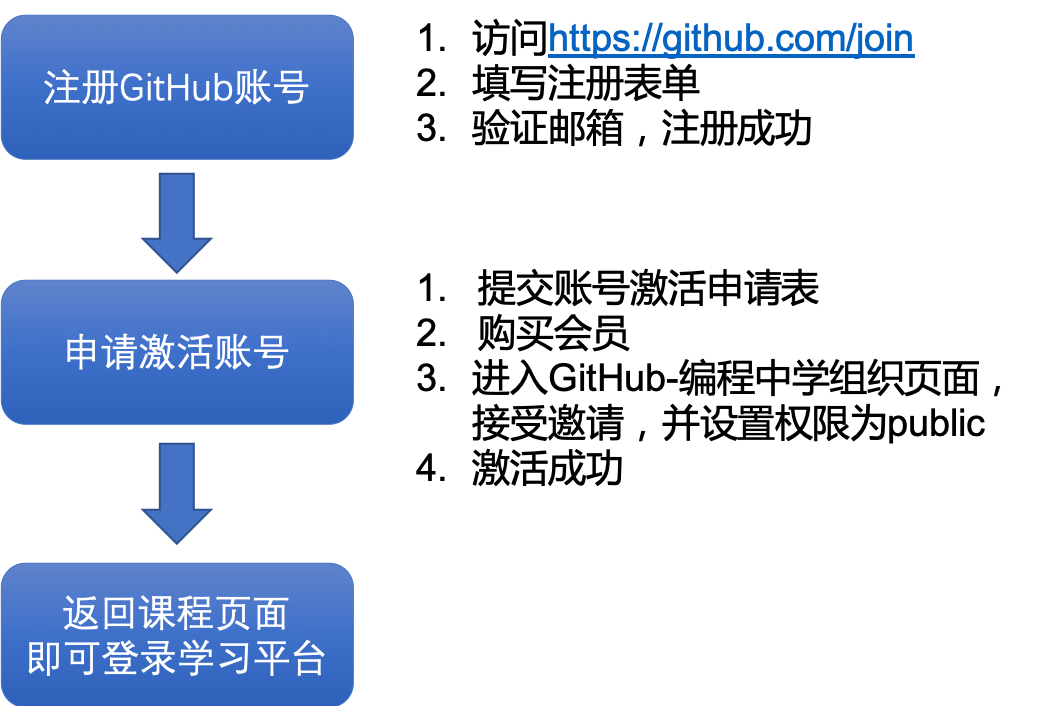
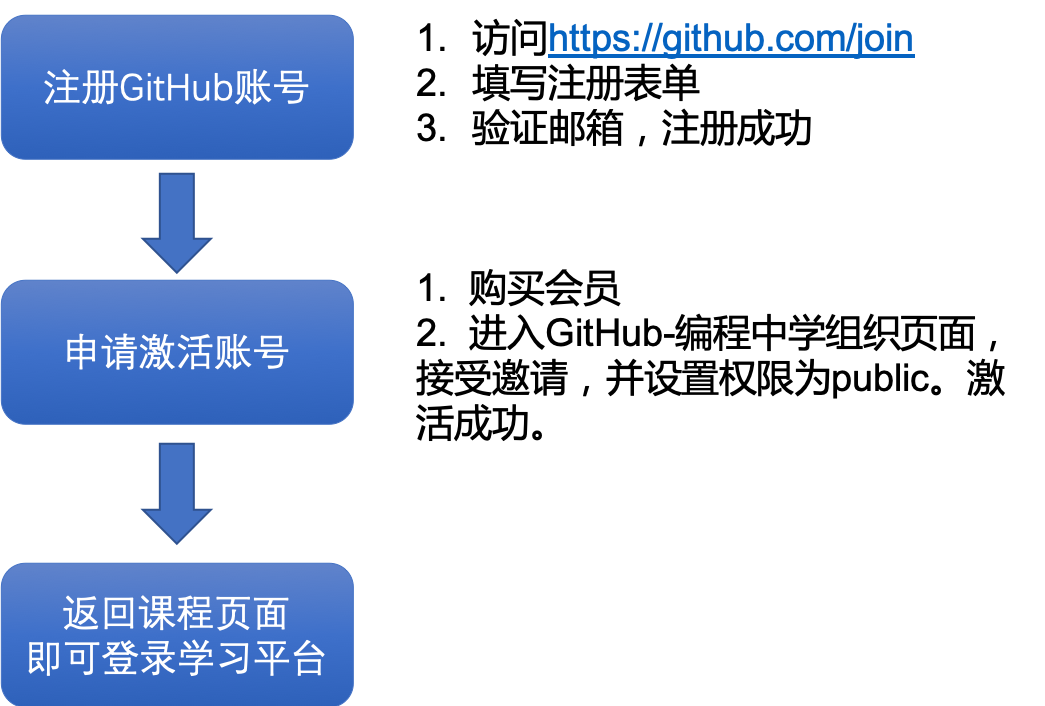
10.11更新版本，可发布

Changed region(s): [[0.3981, 0.3739, 0.9799, 0.6856]]

diff --git a/content/_index.html b/content/_index.html
@@ -30,16 +30,16 @@ linkTitle = "编程中学 -- learn in code"
 
 {{< blocks/section color="primary" >}}
 
-{{% blocks/feature icon="fas fa-file-code" title="Jupyter交互式编程环境" url="./docs/getting-started/" %}}
+{{% blocks/feature icon="fas fa-file-code" title="Jupyter交互式编程环境" url="/docs/jupyter/" %}}
 源自美国伯克利大学开发的Jupyter交互式编程环境，让你在一个网页上就可以观看教程的同时在输入框中编写和运行程序，无需自行安装任何软件
 {{% /blocks/feature %}}
 
-{{% blocks/feature icon="fas fa-wrench" title="手把手的屏幕演示和讲解" url="./docs/guides/client-sdks/" %}}
+{{% blocks/feature icon="fas fa-wrench" title="手把手的屏幕演示和讲解" url="/docs/jupyter/#屏幕演示和语音讲解" %}}
 动手练习课程采取先练后讲的形式，鼓励你独立写出程序，然后再通过屏幕演示和语音讲解相配合的形式为你解答，犹如真人老师在旁手把手指导
 {{% /blocks/feature %}}
 
 
-{{% blocks/feature icon="fas fa-chart-area" title="比知识更重要的是自学的方法" url="./docs/guides/metrics/" %}}
+{{% blocks/feature icon="fas fa-chart-area" title="比知识更重要的是自学的方法" url="/docs/must-read/self-learning/" %}}
 编程是一门十分适合自学的手艺，编程中学的课程能引导你独立思考、自主学习和解决问题的方法，同时培养细致耐心的心理素质。
 {{% /blocks/feature %}}
 

diff --git a/content/docs/courses/_index.md b/content/docs/courses/_index.md
@@ -3,11 +3,13 @@ title = "开始学习"
 weight = 4
 +++
 
+## 如何登录？
+
 建议您在电脑上使用谷歌浏览器访问课程学习链接。[如何安装谷歌浏览器？](https://www.google.cn/chrome/)
 
-点击课程的**`立即体验`**链接，你将跳转到免费体验学习环境，**首次访问您可以自己输入一个任意的用户名和密码就能成功登录**，下次登录时请仍然输入首次使用的用户名和密码登录。
+点击课程的**立即体验**链接，你将跳转到免费体验学习环境，**您可以自行输入一个任意的用户名和密码就能成功登录**（至少6位的字母或数字组成）。
 
-点击课程的**`正式学习`**链接，你将跳转到正式学习编程环境。**登录正式环境需要申请正式账号。[点击查看如何申请正式账号](../apply-account)**。
+点击课程的**正式学习**链接，你将跳转到正式学习编程环境。**登录正式环境需要申请正式账号。[点击查看如何申请正式账号](/docs/apply-account/)**。
 
 ## 学前必读
 
@@ -21,42 +23,66 @@ weight = 4
 
 |课程|-|-|
 |---|---|---|
-|1. Hello World程序和简单的数据类型|[立即体验]()|[正式学习](http://129.211.155.42/hub/user-redirect/git-pull?repo=http%3A%2F%2F49.235.145.202%2Flearnincode%2Fintroduction-to-python-programming&depth=1&urlpath=tree%2Fintroduction-to-python-programming%2F1.%2520Hello%2520World%E7%A8%8B%E5%BA%8F%E5%92%8C%E7%AE%80%E5%8D%95%E7%9A%84%E6%95%B0%E6%8D%AE%E7%B1%BB%E5%9E%8B.ipynb)|
-|2. 列表（上）|[立即体验]()|[正式学习](http://129.211.155.42/hub/user-redirect/git-pull?repo=http%3A%2F%2F49.235.145.202%2Flearnincode%2Fintroduction-to-python-programming&depth=1&urlpath=tree%2Fintroduction-to-python-programming%2F2.%2520%E5%88%97%E8%A1%A8%EF%BC%88%E4%B8%8A%EF%BC%89.ipynb)|
-|3. 列表（下）|[立即体验]()|[正式学习](http://129.211.155.42/hub/user-redirect/git-pull?repo=http%3A%2F%2F49.235.145.202%2Flearnincode%2Fintroduction-to-python-programming&depth=1&urlpath=tree%2Fintroduction-to-python-programming%2F3.%2520%E5%88%97%E8%A1%A8%EF%BC%88%E4%B8%8B%EF%BC%89.ipynb)|
-|4. if语句|[立即体验]()|[正式学习](http://129.211.155.42/hub/user-redirect/git-pull?repo=http%3A%2F%2F49.235.145.202%2Flearnincode%2Fintroduction-to-python-programming&depth=1&urlpath=tree%2Fintroduction-to-python-programming%2F4.%2520if%E8%AF%AD%E5%8F%A5.ipynb)|
-|5. 字典|-|[正式学习](http://129.211.155.42/hub/user-redirect/git-pull?repo=http%3A%2F%2F49.235.145.202%2Flearnincode%2Fintroduction-to-python-programming&depth=1&urlpath=tree%2Fintroduction-to-python-programming%2F5.%2520%E5%AD%97%E5%85%B8.ipynb)|
-|6. input()和while循环|-|[正式学习](http://129.211.155.42/hub/user-redirect/git-pull?repo=http%3A%2F%2F49.235.145.202%2Flearnincode%2Fintroduction-to-python-programming&depth=1&urlpath=tree%2Fintroduction-to-python-programming%2F6.%2520input%28%29%E5%92%8Cwhile%E5%BE%AA%E7%8E%AF.ipynb)|
-|7. 函数|[立即体验]()|[正式学习](http://129.211.155.42/hub/user-redirect/git-pull?repo=http%3A%2F%2F49.235.145.202%2Flearnincode%2Fintroduction-to-python-programming&depth=1&urlpath=tree%2Fintroduction-to-python-programming%2F7.%2520%E5%87%BD%E6%95%B0.ipynb)|
-|8. 面向对象编程--类|[立即体验]()|[正式学习](http://129.211.155.42/hub/user-redirect/git-pull?repo=http%3A%2F%2F49.235.145.202%2Flearnincode%2Fintroduction-to-python-programming&depth=1&urlpath=tree%2Fintroduction-to-python-programming%2F8.%2520%E9%9D%A2%E5%90%91%E5%AF%B9%E8%B1%A1%E7%BC%96%E7%A8%8B%E2%80%94%E2%80%94%E7%B1%BB.ipynb)|
+|1. Hello World程序和简单的数据类型|[立即体验](https://trial.learnincode.com/hub/user-redirect/git-pull?repo=http%3A%2F%2F172.17.0.8%2Flictrial%2Fintroduction-to-python-programming&urlpath=tree%2Fintroduction-to-python-programming%2F1.%2520Hello%2520World%E7%A8%8B%E5%BA%8F%E5%92%8C%E7%AE%80%E5%8D%95%E7%9A%84%E6%95%B0%E6%8D%AE%E7%B1%BB%E5%9E%8B.ipynb)|[正式学习](https://hub.learnincode.com/hub/user-redirect/git-pull?repo=http%3A%2F%2F172.17.0.8%2Flearnincode%2Fintroduction-to-python-programming&urlpath=tree%2Fintroduction-to-python-programming%2F1.%2520Hello%2520World%E7%A8%8B%E5%BA%8F%E5%92%8C%E7%AE%80%E5%8D%95%E7%9A%84%E6%95%B0%E6%8D%AE%E7%B1%BB%E5%9E%8B.ipynb)|
+|2. 列表（上）|[立即体验](https://trial.learnincode.com/hub/user-redirect/git-pull?repo=http%3A%2F%2F172.17.0.8%2Flictrial%2Fintroduction-to-python-programming&urlpath=tree%2Fintroduction-to-python-programming%2F2.%2520%E5%88%97%E8%A1%A8%EF%BC%88%E4%B8%8A%EF%BC%89.ipynb)|[正式学习](https://hub.learnincode.com/hub/user-redirect/git-pull?repo=http%3A%2F%2F172.17.0.8%2Flearnincode%2Fintroduction-to-python-programming&urlpath=tree%2Fintroduction-to-python-programming%2F2.%2520%E5%88%97%E8%A1%A8%EF%BC%88%E4%B8%8A%EF%BC%89.ipynb)|
+|3. 列表（下）|[立即体验](https://trial.learnincode.com/hub/user-redirect/git-pull?repo=http%3A%2F%2F172.17.0.8%2Flictrial%2Fintroduction-to-python-programming&urlpath=tree%2Fintroduction-to-python-programming%2F3.%2520%E5%88%97%E8%A1%A8%EF%BC%88%E4%B8%8B%EF%BC%89.ipynb)|[正式学习](https://hub.learnincode.com/hub/user-redirect/git-pull?repo=http%3A%2F%2F172.17.0.8%2Flearnincode%2Fintroduction-to-python-programming&urlpath=tree%2Fintroduction-to-python-programming%2F3.%2520%E5%88%97%E8%A1%A8%EF%BC%88%E4%B8%8B%EF%BC%89.ipynb)|
+|4. if语句|-|[正式学习](https://hub.learnincode.com/hub/user-redirect/git-pull?repo=http%3A%2F%2F172.17.0.8%2Flearnincode%2Fintroduction-to-python-programming&urlpath=tree%2Fintroduction-to-python-programming%2F4.%2520if%E8%AF%AD%E5%8F%A5.ipynb)|
+|5. 字典|-|[正式学习](https://hub.learnincode.com/hub/user-redirect/git-pull?repo=http%3A%2F%2F172.17.0.8%2Flearnincode%2Fintroduction-to-python-programming&urlpath=tree%2Fintroduction-to-python-programming%2F5.%2520%E5%AD%97%E5%85%B8.ipynb)|
+|6. input()和while循环|-|[正式学习](https://hub.learnincode.com/hub/user-redirect/git-pull?repo=http%3A%2F%2F172.17.0.8%2Flearnincode%2Fintroduction-to-python-programming&urlpath=tree%2Fintroduction-to-python-programming%2F6.%2520input%28%29%E5%92%8Cwhile%E5%BE%AA%E7%8E%AF.ipynb)|
+|7. 函数|-|[正式学习](https://hub.learnincode.com/hub/user-redirect/git-pull?repo=http%3A%2F%2F172.17.0.8%2Flearnincode%2Fintroduction-to-python-programming&urlpath=tree%2Fintroduction-to-python-programming%2F7.%2520%E5%87%BD%E6%95%B0.ipynb)|
+|8. 面向对象编程--类|-|[正式学习](https://hub.learnincode.com/hub/user-redirect/git-pull?repo=http%3A%2F%2F172.17.0.8%2Flearnincode%2Fintroduction-to-python-programming&urlpath=tree%2Fintroduction-to-python-programming%2F8.%2520%E9%9D%A2%E5%90%91%E5%AF%B9%E8%B1%A1%E7%BC%96%E7%A8%8B%E2%80%94%E2%80%94%E7%B1%BB.ipynb)|
 
 ## 编程中 · 学Python（进阶）
 
+适合有一定编程基础的同学，进阶课程对Python编程的原理讲得更透彻，覆盖更全面的知识点，同时教会你进一步自学的方法。练习课程让你能够独立地写出程序。
+
 |课程|-|-|
 |---|---|---|
-|1.1 关于“进阶” |[立即体验]()|[正式学习]()|
-|1.2 “过早引用”的知识结构|[立即体验]()|[正式学习]()|
-|1.3 心理建设|[立即体验]()|[正式学习]()|
-|2.1 重新认识Python程序|[立即体验]()|[正式学习]()|
-|3.1 值及其运算|[立即体验]()|[正式学习]()|
-|3.2 动手练一练|[立即体验]()|[正式学习]()|
-|4.1 流程控制|[立即体验]()|[正式学习]()|
-|4.2 动手练一练|[立即体验]()|[正式学习]()|
-|5.1 函数|[立即体验]()|[正式学习]()|
-|6.1 字符串|[立即体验]()|[正式学习]()|
-|6.2 动手练一练|[立即体验]()|[正式学习]()|
-|7.1 数据容器（上）|[立即体验]()|[正式学习]()|
-|7.2 数据容器（下）|[立即体验]()|[正式学习]()|
-|7.3 动手练一练|[立即体验]()|[正式学习]()|
-|8.1 文件|[立即体验]()|[正式学习]()|
-|8.2 动手练一练|[立即体验]()|[正式学习]()|
-|9.1 模块|[立即体验]()|[正式学习]()|
-|X.1 类——面向对象编程|[立即体验]()|[正式学习]()|
-|X.2 类 —— Python的实现|[立即体验]()|[正式学习]()|
+|1.1 关于“进阶” |[立即体验](https://trial.learnincode.com/hub/user-redirect/git-pull?repo=http%3A%2F%2F172.17.0.8%2Flictrial%2Fpythonlearning&urlpath=tree%2Fpythonlearning%2F1.1%2520%E5%85%B3%E4%BA%8E%E2%80%9C%E8%BF%9B%E9%98%B6%E2%80%9D.ipynb)|[正式学习](https://hub.learnincode.com/hub/user-redirect/git-pull?repo=http%3A%2F%2F172.17.0.8%2Flearnincode%2Fpythonlearning&urlpath=tree%2Fpythonlearning%2F1.1%2520%E5%85%B3%E4%BA%8E%E2%80%9C%E8%BF%9B%E9%98%B6%E2%80%9D.ipynb)|
+|1.2 “过早引用”的知识结构|[立即体验](https://trial.learnincode.com/hub/user-redirect/git-pull?repo=http%3A%2F%2F172.17.0.8%2Flictrial%2Fpythonlearning&urlpath=tree%2Fpythonlearning%2F1.2%2520%E2%80%9C%E8%BF%87%E6%97%A9%E5%BC%95%E7%94%A8%E2%80%9D%E7%9A%84%E7%9F%A5%E8%AF%86%E7%BB%93%E6%9E%84.ipynb)|[正式学习](https://hub.learnincode.com/hub/user-redirect/git-pull?repo=http%3A%2F%2F172.17.0.8%2Flearnincode%2Fpythonlearning&urlpath=tree%2Fpythonlearning%2F1.2%2520%E2%80%9C%E8%BF%87%E6%97%A9%E5%BC%95%E7%94%A8%E2%80%9D%E7%9A%84%E7%9F%A5%E8%AF%86%E7%BB%93%E6%9E%84.ipynb)|
+|1.3 心理建设|[立即体验](https://trial.learnincode.com/hub/user-redirect/git-pull?repo=http%3A%2F%2F172.17.0.8%2Flictrial%2Fpythonlearning&urlpath=tree%2Fpythonlearning%2F1.3%2520%E5%BF%83%E7%90%86%E5%BB%BA%E8%AE%BE.ipynb)|[正式学习](https://hub.learnincode.com/hub/user-redirect/git-pull?repo=http%3A%2F%2F172.17.0.8%2Flearnincode%2Fpythonlearning&urlpath=tree%2Fpythonlearning%2F1.3%2520%E5%BF%83%E7%90%86%E5%BB%BA%E8%AE%BE.ipynb)|
+|2.1 重新认识Python程序|[立即体验](https://trial.learnincode.com/hub/user-redirect/git-pull?repo=http%3A%2F%2F172.17.0.8%2Flictrial%2Fpythonlearning&urlpath=tree%2Fpythonlearning%2F2.1%2520%E9%87%8D%E6%96%B0%E8%AE%A4%E8%AF%86Python%E7%A8%8B%E5%BA%8F.ipynb)|[正式学习](https://hub.learnincode.com/hub/user-redirect/git-pull?repo=http%3A%2F%2F172.17.0.8%2Flearnincode%2Fpythonlearning&urlpath=tree%2Fpythonlearning%2F2.1%2520%E9%87%8D%E6%96%B0%E8%AE%A4%E8%AF%86Python%E7%A8%8B%E5%BA%8F.ipynb)|
+|3.1 值及其运算|[立即体验](https://trial.learnincode.com/hub/user-redirect/git-pull?repo=http%3A%2F%2F172.17.0.8%2Flictrial%2Fpythonlearning&urlpath=tree%2Fpythonlearning%2F3.1%2520%E5%80%BC%E5%8F%8A%E5%85%B6%E8%BF%90%E7%AE%97.ipynb)|[正式学习](https://hub.learnincode.com/hub/user-redirect/git-pull?repo=http%3A%2F%2F172.17.0.8%2Flearnincode%2Fpythonlearning&urlpath=tree%2Fpythonlearning%2F3.1%2520%E5%80%BC%E5%8F%8A%E5%85%B6%E8%BF%90%E7%AE%97.ipynb)|
+|3.2 动手练一练|[立即体验](https://trial.learnincode.com/hub/user-redirect/git-pull?repo=http%3A%2F%2F172.17.0.8%2Flictrial%2Fpythonlearning&urlpath=tree%2Fpythonlearning%2F3.2%2520%E5%8A%A8%E6%89%8B%E7%BB%83%E4%B8%80%E7%BB%83.ipynb)|[正式学习](https://hub.learnincode.com/hub/user-redirect/git-pull?repo=http%3A%2F%2F172.17.0.8%2Flearnincode%2Fpythonlearning&urlpath=tree%2Fpythonlearning%2F3.2%2520%E5%8A%A8%E6%89%8B%E7%BB%83%E4%B8%80%E7%BB%83.ipynb)|
+|4.1 流程控制|[立即体验](https://trial.learnincode.com/hub/user-redirect/git-pull?repo=http%3A%2F%2F172.17.0.8%2Flictrial%2Fpythonlearning&urlpath=tree%2Fpythonlearning%2F4.1%2520%E6%B5%81%E7%A8%8B%E6%8E%A7%E5%88%B6.ipynb)|[正式学习](https://hub.learnincode.com/hub/user-redirect/git-pull?repo=http%3A%2F%2F172.17.0.8%2Flearnincode%2Fpythonlearning&urlpath=tree%2Fpythonlearning%2F4.1%2520%E6%B5%81%E7%A8%8B%E6%8E%A7%E5%88%B6.ipynb)|
+|4.2 动手练一练|[立即体验](https://trial.learnincode.com/hub/user-redirect/git-pull?repo=http%3A%2F%2F172.17.0.8%2Flictrial%2Fpythonlearning&urlpath=tree%2Fpythonlearning%2F4.2%2520%E5%8A%A8%E6%89%8B%E7%BB%83%E4%B8%80%E7%BB%83.ipynb)|[正式学习](https://hub.learnincode.com/hub/user-redirect/git-pull?repo=http%3A%2F%2F172.17.0.8%2Flearnincode%2Fpythonlearning&urlpath=tree%2Fpythonlearning%2F4.2%2520%E5%8A%A8%E6%89%8B%E7%BB%83%E4%B8%80%E7%BB%83.ipynb)|
+|5.1 函数|.|[正式学习](https://hub.learnincode.com/hub/user-redirect/git-pull?repo=http%3A%2F%2F172.17.0.8%2Flearnincode%2Fpythonlearning&urlpath=tree%2Fpythonlearning%2F5.1%2520%E5%87%BD%E6%95%B0.ipynb)|
+|6.1 字符串|.|[正式学习](https://hub.learnincode.com/hub/user-redirect/git-pull?repo=http%3A%2F%2F172.17.0.8%2Flearnincode%2Fpythonlearning&urlpath=tree%2Fpythonlearning%2F6.1%2520%E5%AD%97%E7%AC%A6%E4%B8%B2.ipynb)|
+|6.2 动手练一练|.|[正式学习](https://hub.learnincode.com/hub/user-redirect/git-pull?repo=http%3A%2F%2F172.17.0.8%2Flearnincode%2Fpythonlearning&urlpath=tree%2Fpythonlearning%2F6.2%2520%E5%8A%A8%E6%89%8B%E7%BB%83%E4%B8%80%E7%BB%83.ipynb)|
+|7.1 数据容器（上）|.|[正式学习](https://hub.learnincode.com/hub/user-redirect/git-pull?repo=http%3A%2F%2F172.17.0.8%2Flearnincode%2Fpythonlearning&urlpath=tree%2Fpythonlearning%2F7.1%2520%E6%95%B0%E6%8D%AE%E5%AE%B9%E5%99%A8%EF%BC%88%E4%B8%8A%EF%BC%89.ipynb)|
+|7.2 数据容器（下）|.|[正式学习](https://hub.learnincode.com/hub/user-redirect/git-pull?repo=http%3A%2F%2F172.17.0.8%2Flearnincode%2Fpythonlearning&urlpath=tree%2Fpythonlearning%2F7.2%2520%E6%95%B0%E6%8D%AE%E5%AE%B9%E5%99%A8%EF%BC%88%E4%B8%8B%EF%BC%89.ipynb)|
+|7.3 动手练一练|.|[正式学习](https://hub.learnincode.com/hub/user-redirect/git-pull?repo=http%3A%2F%2F172.17.0.8%2Flearnincode%2Fpythonlearning&urlpath=tree%2Fpythonlearning%2F7.3%2520%E5%8A%A8%E6%89%8B%E7%BB%83%E4%B8%80%E7%BB%83.ipynb)|
+|8.1 文件|.|[正式学习](https://hub.learnincode.com/hub/user-redirect/git-pull?repo=http%3A%2F%2F172.17.0.8%2Flearnincode%2Fpythonlearning&urlpath=tree%2Fpythonlearning%2F8.1%2520%E6%96%87%E4%BB%B6.ipynb)|
+|8.2 动手练一练|.|[正式学习](https://hub.learnincode.com/hub/user-redirect/git-pull?repo=http%3A%2F%2F172.17.0.8%2Flearnincode%2Fpythonlearning&urlpath=tree%2Fpythonlearning%2F8.2%2520%E5%8A%A8%E6%89%8B%E7%BB%83%E4%B8%80%E7%BB%83.ipynb)|
+|9.1 模块|.|[正式学习](https://hub.learnincode.com/hub/user-redirect/git-pull?repo=http%3A%2F%2F172.17.0.8%2Flearnincode%2Fpythonlearning&urlpath=tree%2Fpythonlearning%2F9.1%2520%E6%A8%A1%E5%9D%97.ipynb)|
+|10.1 类——面向对象编程|.|[正式学习](https://hub.learnincode.com/hub/user-redirect/git-pull?repo=http%3A%2F%2F172.17.0.8%2Flearnincode%2Fpythonlearning&urlpath=tree%2Fpythonlearning%2FX.1%2520%E7%B1%BB%E2%80%94%E2%80%94%E9%9D%A2%E5%90%91%E5%AF%B9%E8%B1%A1%E7%BC%96%E7%A8%8B.ipynb)|
+|10.2 类 —— Python的实现|.|[正式学习](https://hub.learnincode.com/hub/user-redirect/git-pull?repo=http%3A%2F%2F172.17.0.8%2Flearnincode%2Fpythonlearning&urlpath=tree%2Fpythonlearning%2FX.2%2520%E7%B1%BB%2520%E2%80%94%E2%80%94%2520Python%E7%9A%84%E5%AE%9E%E7%8E%B0.ipynb)|
+
+
+# 编程实战项目课
 
 ## 编程中 · 学制作ASCII字符画
+
+编写一个将图片转化为充满极客感的ASCII字符画的程序，通过课程你能学会调用Python第三方库处理图像的基本操作。
+
+|课程|-|-|
+|---|---|---|
+|1. 什么是ASCII字符图形|[立即体验](https://trial.learnincode.com/hub/user-redirect/git-pull?repo=http%3A%2F%2F172.17.0.8%2Flictrial%2Fascii-images&urlpath=tree%2Fascii-images%2F1.%2520%E4%BB%80%E4%B9%88%E6%98%AFASCII%E5%AD%97%E7%AC%A6%E5%9B%BE%E5%BD%A2.ipynb)|[正式学习](https://hub.learnincode.com/hub/user-redirect/git-pull?repo=http%3A%2F%2F172.17.0.8%2Flearnincode%2Fascii-images&urlpath=tree%2Fascii-images%2F1.%2520%E4%BB%80%E4%B9%88%E6%98%AFASCII%E5%AD%97%E7%AC%A6%E5%9B%BE%E5%BD%A2.ipynb)|
+|2. 工作原理|[立即体验](https://trial.learnincode.com/hub/user-redirect/git-pull?repo=http%3A%2F%2F172.17.0.8%2Flictrial%2Fascii-images&urlpath=tree%2Fascii-images%2F2.%2520%E5%B7%A5%E4%BD%9C%E5%8E%9F%E7%90%86.ipynb)|[正式学习](https://hub.learnincode.com/hub/user-redirect/git-pull?repo=http%3A%2F%2F172.17.0.8%2Flearnincode%2Fascii-images&urlpath=tree%2Fascii-images%2F2.%2520%E5%B7%A5%E4%BD%9C%E5%8E%9F%E7%90%86.ipynb)|
+|3. 定义灰度等级和网格|[立即体验](https://trial.learnincode.com/hub/user-redirect/git-pull?repo=http%3A%2F%2F172.17.0.8%2Flictrial%2Fascii-images&urlpath=tree%2Fascii-images%2F3.%2520%E5%AE%9A%E4%B9%89%E7%81%B0%E5%BA%A6%E7%AD%89%E7%BA%A7%E5%92%8C%E7%BD%91%E6%A0%BC.ipynb)|[正式学习](https://hub.learnincode.com/hub/user-redirect/git-pull?repo=http%3A%2F%2F172.17.0.8%2Flearnincode%2Fascii-images&urlpath=tree%2Fascii-images%2F3.%2520%E5%AE%9A%E4%B9%89%E7%81%B0%E5%BA%A6%E7%AD%89%E7%BA%A7%E5%92%8C%E7%BD%91%E6%A0%BC.ipynb)|
+|4. 切分图像|.|[正式学习](https://hub.learnincode.com/hub/user-redirect/git-pull?repo=http%3A%2F%2F172.17.0.8%2Flearnincode%2Fascii-images&urlpath=tree%2Fascii-images%2F4.%2520%E5%88%87%E5%88%86%E5%9B%BE%E5%83%8F.ipynb)|
+|5. 计算平均灰度|.|[正式学习](https://hub.learnincode.com/hub/user-redirect/git-pull?repo=http%3A%2F%2F172.17.0.8%2Flearnincode%2Fascii-images&urlpath=tree%2Fascii-images%2F5.%2520%E8%AE%A1%E7%AE%97%E5%B9%B3%E5%9D%87%E7%81%B0%E5%BA%A6.ipynb)|
+|6. 完整程序|.|[正式学习](https://hub.learnincode.com/hub/user-redirect/git-pull?repo=http%3A%2F%2F172.17.0.8%2Flearnincode%2Fascii-images&urlpath=tree%2Fascii-images%2F6.%2520%E5%AE%8C%E6%95%B4%E7%A8%8B%E5%BA%8F.ipynb)|
 
 
 ## 编程中 · 学数据可视化
 
-[了解体验学习环境和正式学习环境]()
+学会使用matplotlib库制作散点图、柱状图等可视化图形，用数据可视化表达你的见解或发现。
+
+|课程|-|-|
+|---|---|---|
+|1. 数据可视化|[立即体验](https://trial.learnincode.com/hub/user-redirect/git-pull?repo=http%3A%2F%2F172.17.0.8%2Flictrial%2Fdata-visualization-intro&urlpath=tree%2Fdata-visualization-intro%2F1.%2520%E6%95%B0%E6%8D%AE%E5%8F%AF%E8%A7%86%E5%8C%96.ipynb)|[正式学习](https://hub.learnincode.com/hub/user-redirect/git-pull?repo=http%3A%2F%2F172.17.0.8%2Flearnincode%2Fdata-visualization-intro&urlpath=tree%2Fdata-visualization-intro%2F1.%2520%E6%95%B0%E6%8D%AE%E5%8F%AF%E8%A7%86%E5%8C%96.ipynb)|
+|2. 随机漫步|.|[正式学习](https://hub.learnincode.com/hub/user-redirect/git-pull?repo=http%3A%2F%2F172.17.0.8%2Flearnincode%2Fdata-visualization-intro&urlpath=tree%2Fdata-visualization-intro%2F2.%2520%E9%9A%8F%E6%9C%BA%E6%BC%AB%E6%AD%A5.ipynb)|
+|3. 掷骰子|.|[正式学习](https://hub.learnincode.com/hub/user-redirect/git-pull?repo=http%3A%2F%2F172.17.0.8%2Flearnincode%2Fdata-visualization-intro&urlpath=tree%2Fdata-visualization-intro%2F3.%2520%E6%8E%B7%E9%AA%B0%E5%AD%90.ipynb)|
+
+![添加微信号](/images/编程中学-banner_自定义px_2019.10.11.png)

diff --git a/content/docs/apply-account/register-github/index.md b/content/docs/apply-account/register-github/index.md
@@ -9,9 +9,9 @@ weight = 1
 
 如果你没有任何一个邮箱，可以使用微信或QQ登录[QQ邮箱](https://mail.qq.com)，立即获取一个QQ邮箱。
 
-### 1. 浏览器访问GitHub注册链接：https://github.com/join
+### 1. 访问GitHub注册链接：https://github.com/join
 
-注意，页面加载出来后，不必着急填写用户名和密码。先等下方的“Verify your Account”加载出结果。如果一直在转圈，超过了1分钟，你可以刷新一下页面重试，直到出现如下两种结果之一。
+注意，页面加载出来后，不必着急填写用户名和密码。先等下方的“Verify your Account”加载出以下两种结果之一。如果一直在转圈，超过了1分钟，你可以刷新一下页面重试。
 
 > 因为GitHub是国外的网站，国内访问速度会比较慢一点，请耐心等待一会。
 
@@ -22,7 +22,7 @@ weight = 1
 
 <img src="填写注册表单.png" alt="填写注册表单" style="width: 600px;"/>
 
-如果你的“Verify your Account”结果需要你验证是真人，而非机器人，请按照如下步骤进行验证：
+“Verify your Account” 验证：
 
 1. 点击“验证”按钮
 2. 点击左侧或右侧的箭头，调整中间动物的朝向，调整到动物正立站立的位置后，点击“完成“按钮
@@ -31,7 +31,6 @@ weight = 1
 
 当你输入了正确的用户名、密码信息，并通过验证后，最下方“Next: Select a plan”按钮会变为深蓝色，点击该按钮进入下一步。
 
-> 注意：有时，点击“Next: Select a plan”后，会再次让你进行“Verify your Account”操作，这可能是因为你上一步的验证操作没有成功。这时你只需耐心等待加载出验证页面，并按照上一步的指导操作，完成验证即可。
 
 ### 2. 选择订阅计划，点击选择Choose Free即可。
 
@@ -48,6 +47,6 @@ weight = 1
 
 此时，你已注册成功GitHub账号，但是要登录编程中学学习平台，还需激活账号。
 
-### 下一步操作： [申请激活你的账号]()。
+### 下一步操作： [申请激活你的账号](/docs/apply-account/activate-account/)。
 
-
+![添加微信号](/images/编程中学-banner_自定义px_2019.10.11.png)

diff --git a/content/docs/apply-account/activate-account/index.md b/content/docs/apply-account/activate-account/index.md
@@ -3,21 +3,44 @@ title = "激活你的账号"
 weight = 2
 +++
 
-## 登录淘宝链接
+## 购买会员
 
-## 购买成功后，进入https://github.com/learn-in-code
+请使用手机识别下方二维码，或[直接访问购买链接](https://weidian.com/item.html?itemID=3019649856)。
 
-#### 1. 查看加入“编程中学”组织的邀请
+<img src="微店二维码.jpeg" alt="微店二维码" style="width: 400px;"/>
+
+### 会员权益
+1. 会员有效期内，所有课程都可以学习。
+2. 配置专属于你的一台云端服务器，供你运行程序。
+3. 程序的修改记录可以永久保存。
+4. 会员有效期三个月，自你成功购买之日起计算。
+
+### 购买时请注意
+1. 下单时，请务必填上学员准确的GitHub用户名和手机号码，方便我们为你开通会员。
+2. 交易依托微店平台作为交易资金担保方，您可以放心交易。
+
+## 购买成功后
+
+客服会在10分钟内，向您的GitHub账号发送加入“编程中学”组织的邀请，待收到客服通知后，请按如下步骤接受邀请。
+
+#### 1. 进入链接： https://github.com/learn-in-code
+
+点击“View invitation”, 查看“编程中学”的邀请
 
 <img src="view-invitation.png" alt="view invitation" style="width: 600px;"/>
 
 #### 2. 点击加入
+
 <img src="join.png" alt="join" style="width: 600px;"/>
 
 #### 3. 进入“People”标签页
+
 <img src="people-page.png" alt="people page" style="width: 600px;"/>
 
 #### 4. 找到自己的用户名，将可见性由Private改为Public。
+
 <img src="public-access.png" alt="public" style="width: 700px;"/>
 
-#### 5. 返回“选择课程”页面，点击任一课程的“正式学习”链接，即可登录平台学习。
+#### 5. 返回[开始学习](/docs/courses/)页面，点击任一课程的“正式学习”链接，即可[登录平台学习](/docs/apply-account/back-login/)。
+
+![添加微信号](/images/编程中学-banner_自定义px_2019.10.11.png)

diff --git a/content/docs/must-read/self-learning/index.md b/content/docs/must-read/self-learning/index.md
@@ -29,7 +29,7 @@ weight = 8
 
 你作为一个个体，每天都在产生各种各样的数据，然后时时刻刻都在被别人使用着、分析着…… 然而你自己却全然没有数据分析能力，甚至不知道这事很重要，是不是感觉很可怕？你看看周边那么多人，有多大的比例想过这事？反正那些天天看机器算法生成的信息流的人好像就是全然不在意自己正在被支配……
 
-怎么办？学呗，学点编程罢 —— 巧了，_这还真是个正常人都能学会的技能_。
+怎么办？学呗，学点编程罢 —— 巧了，*这还真是个正常人都能学会的技能*。
 
 
 ## 编程这个东西总归是要自学的
@@ -56,7 +56,7 @@ weight = 8
 > * https://docs.python.org/zh-cn/3/tutorial/index.html (for v.3.7.2）
 > * http://www.pythondoc.com/pythontutorial3/ (for v.3.6.3)
 
-有一本书叫《[人人都能用英语](https://github.com/xiaolai/everyone-can-use-english)》。其中的观点就是，大多数人之所以在英语这事上很挫，是因为他们花无数的时间去_“学”_，但就是_“不用”_。学以致用，用以促学。可就是不用，无论如何就是不用，那英语学了那么多年能学好吗？
+有一本书叫《[人人都能用英语](https://github.com/xiaolai/everyone-can-use-english)》。其中的观点就是，大多数人之所以在英语这事上很挫，是因为他们花无数的时间去*“学”*，但就是*“不用”*。学以致用，用以促学。可就是不用，无论如何就是不用，那英语学了那么多年能学好吗？
 
 自学编程的一个 “副作用” 就是，**你不得不用英语**。而且还是天天用，不停地用。
 

diff --git a/content/docs/apply-account/back-login/index.md b/content/docs/apply-account/back-login/index.md
@@ -3,12 +3,24 @@ title = "登录学习平台"
 weight = 3
 +++
 
-1. [点击进入选择课程页面]()
+1. 进入[开始学习页面](/docs/courses/)，点击任意课程的“正式学习”链接。
 
 2. 点击“Sign in with GitHub”按钮。
 
 3. 然后，跳转到授权登录页面，点击绿色的按钮即可。点击后，正常就能进入学习平台了。
 
-> 点击后如果没有正常跳转，页面上显示403问题，请确认是否按照上一步激活账号的操作完全执行了。
+> 点击后如果没有正常跳转，页面上显示403问题，请确认是否按照上一步[激活账号](/docs/apply-account/activate-account/)的操作正确执行了。
 
 <img src="授权登录.png" alt="授权登录" style="width: 300px;"/>
+
+## 更换设备登录
+
+当你使用一台新的设备登录时，例如你原先是在电脑上注册的GitHub账号，现在要在手机上登录。这时会出现下面这个页面提示你需要输入一个设备验证码。
+
+<img src="更换设备登录.jpeg" alt="更换设备登录" style="width: 300px;"/>
+
+GitHub已发送一封邮件到你注册时用的那个邮箱，找到邮件中的验证码，输入即可。
+
+<img src="设备验证码邮件.png" alt="设备验证码邮件" style="width: 700px;"/>
+
+![添加微信号](/images/编程中学-banner_自定义px_2019.10.11.png)

diff --git a/content/docs/apply-account/_index.md b/content/docs/apply-account/_index.md
@@ -7,8 +7,6 @@ weight = 7
 
 > GitHub是全世界最大的软件程序开发者社区，截至2019年8月，已拥有超过4000万开发者。我们将帮助你注册一个GitHub账号，加入充满未知和挑战的编程世界。
 
-#### 整体流程
-
 <img src="申请正式账号-整体流程.png" alt="申请正式账号-整体流程" style="width: 400px;"/>
 
 #### 请按以下指导分步操作：
